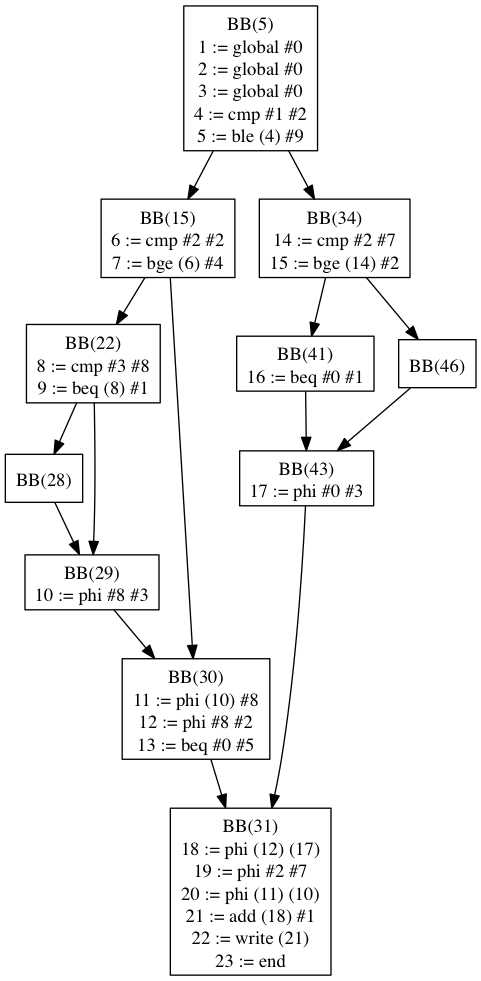
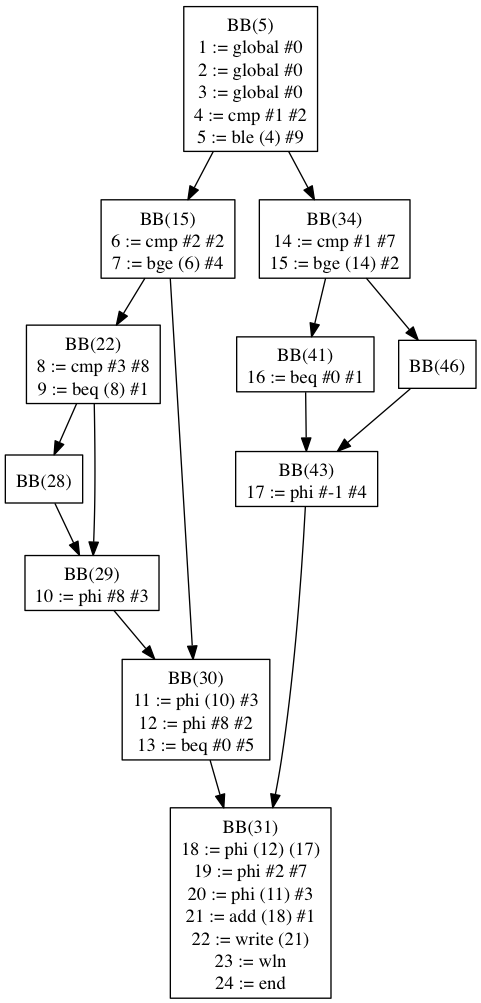
Fixed PHI generation for test case 009

Changed region(s): [[0.0, 0.0, 0.9979, 1.0]]

diff --git a/project/src/com/uci/cs241/pl241/frontend/PLParser.java b/project/src/com/uci/cs241/pl241/frontend/PLParser.java
@@ -1931,6 +1931,9 @@ public class PLParser
 			follow.fixupLocation = 0;
 			advance(in);
 			
+			// Push on a new scope for the then block
+			System.out.println("Before if:");
+			scope.displayCurrentScopeSymbols();
 			scope.pushNewScope("if" + (blockDepth++));
 			
 			// Parse the condition relation
@@ -1982,6 +1985,12 @@ public class PLParser
 			}
 			entry.joinNode = joinNode;
 			
+			// Leave the scope of the then-block
+			System.out.println("After if:");
+			scope.displayCurrentScopeSymbols();
+			scope.popScope();
+			scope.displayCurrentScopeSymbols();
+			
 			// Check for an else branch
 			int offset = 0;
 			PLIRBasicBlock elseBlock = null;
@@ -1989,6 +1998,8 @@ public class PLParser
 			PLIRInstruction uncond = null;
 			if (toksym == PLToken.elseToken)
 			{
+				scope.pushNewScope("else" + (blockDepth++));
+				
 				// Add the unconditional branch at the end of the then block, which will be fixed up later
 				uncond = UnCondBraFwd(follow);
 				uncond.tempPosition = PLStaticSingleAssignment.globalSSAIndex;
@@ -2036,6 +2047,8 @@ public class PLParser
 				entry.rightChild = elseBlock;
 				elseBlock.parents.add(entry);
 				
+				scope.popScope();
+				
 				// Check for necessary phis to be inserted in the join block
 				// We need phis for variables that were modified in both branches so we fall through with the right value
 				sharedModifiers = new ArrayList<String>();
@@ -2058,8 +2071,10 @@ public class PLParser
 					offset++; 
 					PLIRInstruction thenInst = thenBlock.modifiedIdents.get(var);
 					debug(thenInst.toString());
+					
 					thenInst.forceGenerate(scope, thenInst.tempPosition);
 					PLIRInstruction elseInst = elseBlock.modifiedIdents.get(var);
+					
 					debug(elseInst.toString());
 					elseInst.forceGenerate(scope, elseInst.tempPosition);
 					PLIRInstruction phi = PLIRInstruction.create_phi(scope, thenInst, elseInst, PLStaticSingleAssignment.globalSSAIndex);
@@ -2073,8 +2088,7 @@ public class PLParser
 				}
 				
 				// Jump back from the if statement scope so we can update the variables with the appropriate phi result
-				scope.popScope();
-//				blockDepth--;
+//				scope.popScope();
 				for (int i = 0; i < phisToAdd.size(); i++)
 				{
 					scope.updateSymbol(sharedModifiers.get(i), phisToAdd.get(i));
@@ -2111,8 +2125,10 @@ public class PLParser
 					offset++;
 					PLIRInstruction elseInst = elseBlock.modifiedIdents.get(var);
 					elseInst.forceGenerate(scope, elseInst.tempPosition);
-					PLIRInstruction followInst = scope.getCurrentValue(var);
+					
+					PLIRInstruction followInst = scope.getLastValue(var);
 					followInst.forceGenerate(scope, followInst.tempPosition);
+					
 					PLIRInstruction phi = PLIRInstruction.create_phi(scope, followInst, elseInst, PLStaticSingleAssignment.globalSSAIndex);
 					phi.isGlobalVariable = followInst.isGlobalVariable || elseInst.isGlobalVariable;
 					debug(phi.toString());
@@ -2173,8 +2189,6 @@ public class PLParser
 			{
 				entry.rightChild = joinNode;
 				joinNode.parents.add(entry);
-//				scope.popScope();
-//			}
 				
 				// Check for necessary phis to be inserted in the join block
 				// We need phis for variables that were modified in both branches so we fall through with the right value
@@ -2218,8 +2232,6 @@ public class PLParser
 					entry.modifiedIdents.put(var, phi);
 					joinNode.modifiedIdents.put(var, phi);
 				}
-				scope.popScope();
-//				blockDepth--;
 			}
 			
 //			// Check for necessary phis to be inserted in the join block

diff --git a/project/src/com/uci/cs241/pl241/frontend/PLSymbolTable.java b/project/src/com/uci/cs241/pl241/frontend/PLSymbolTable.java
@@ -123,7 +123,7 @@ public class PLSymbolTable
 			String lastScope = currentScope.get(currentScope.size() - 2);
 			for (String value : symTable.get(lastScope).keySet())
 			{
-//				System.err.println("Adding " + value + " from scope " + lastScope + " to " + scope);
+				System.err.println("Adding " + value + " from scope " + lastScope + " to " + scope);
 				symTable.get(scope).put(value, symTable.get(lastScope).get(value));
 			}
 			for (String value : funScopeTable.get(lastScope))
@@ -236,7 +236,9 @@ public class PLSymbolTable
 		}
 		else
 		{
-			return prevSymTable.get(sym).get(prevSymTable.get(sym).size() - 2);
+			String lastScope = currentScope.get(currentScope.size() - 1);
+			return symTable.get(lastScope).get(sym);
+//			return prevSymTable.get(sym).get(prevSymTable.get(sym).size() - 2);
 		}
 	}
 	
@@ -255,6 +257,7 @@ public class PLSymbolTable
 	public void displayCurrentScopeSymbols()
 	{
 		String scope = getCurrentScope();
+		System.out.println("Scope = " + scope);
 		for (String var : symTable.get(scope).keySet())
 		{
 			System.out.println("Var: " + var + " => " + 

diff --git a/project/src/PLC.java b/project/src/PLC.java
@@ -313,14 +313,15 @@ public class PLC
 				}
 				
 				// End of program instruction
-				DLXInstruction endInst = new DLXInstruction();
-				endInst.opcode = InstructionType.RET;
-				endInst.format = dlxGen.formatMap.get(InstructionType.RET);
-				endInst.ra = 0;
-				endInst.rb = 0;
-				endInst.rc = 0;
-				endInst.pc = slp.size() + 3;
-				slp.add(endInst);
+//				DLXInstruction endInst = new DLXInstruction();
+//				endInst.opcode = InstructionType.RET;
+//				endInst.format = dlxGen.formatMap.get(InstructionType.RET);
+//				endInst.ra = 0;
+//				endInst.rb = 0;
+//				endInst.rc = 0;
+//				endInst.pc = slp.size() + 3;
+//				endInst.encodedForm = dlxGen.encodeInstruction(endInst);
+//				slp.add(endInst);
 				
 				// Insert jump to the start of the program
 				DLXInstruction mainJump = new DLXInstruction();

diff --git a/project/src/com/uci/cs241/pl241/backend/DLXGenerator.java b/project/src/com/uci/cs241/pl241/backend/DLXGenerator.java
@@ -1024,14 +1024,14 @@ public class DLXGenerator
 						appendInstructionToBlock(edb, newInst);
 						break;
 					case END:
-//						newInst.opcode = InstructionType.RET;
-//						newInst.format = formatMap.get(InstructionType.RET);
-//						newInst.ra = 0;
-//						newInst.rb = 0;
-//						newInst.rc = 0;
-//
-//						fixOffset(ssaInst.id, newInst);
-//						appendInstructionToEndBlock(edb, newInst);
+						newInst.opcode = InstructionType.RET;
+						newInst.format = formatMap.get(InstructionType.RET);
+						newInst.ra = 0;
+						newInst.rb = 0;
+						newInst.rc = 0;
+
+						fixOffset(ssaInst.id, newInst);
+						appendInstructionToEndBlock(edb, newInst);
 						break;
 					case CMP:
 						if (leftConst && rightConst)
